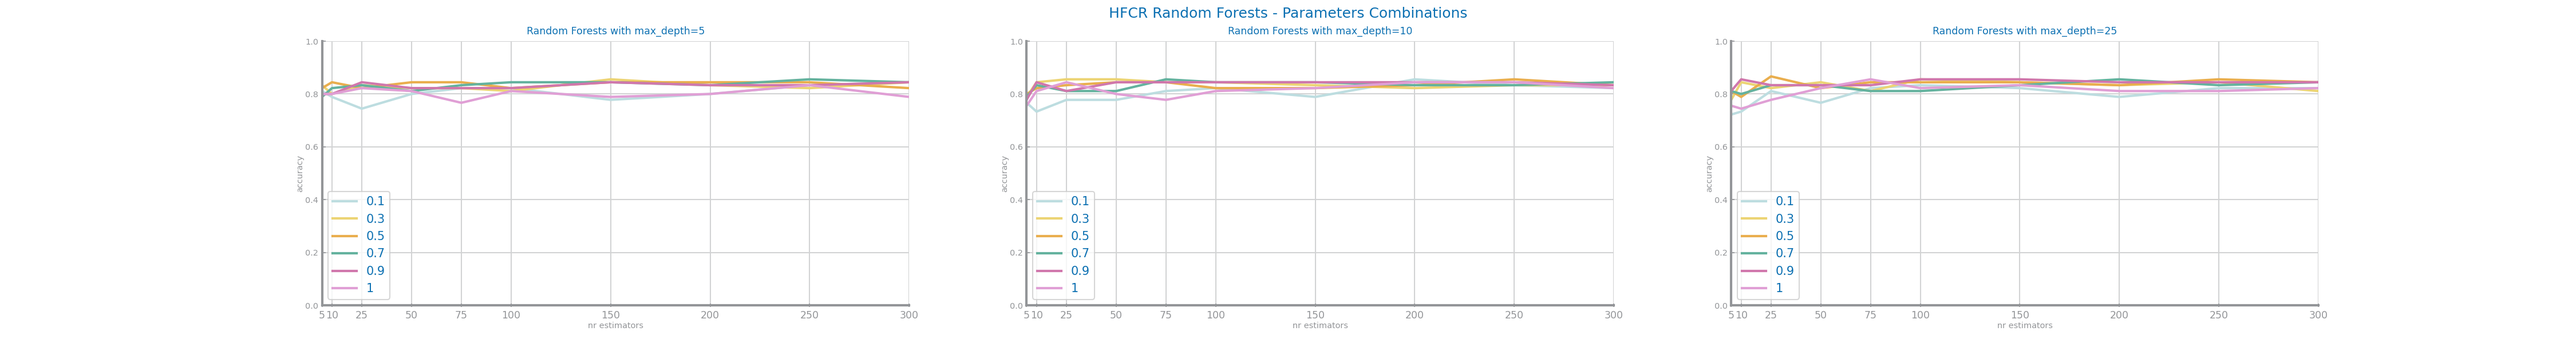
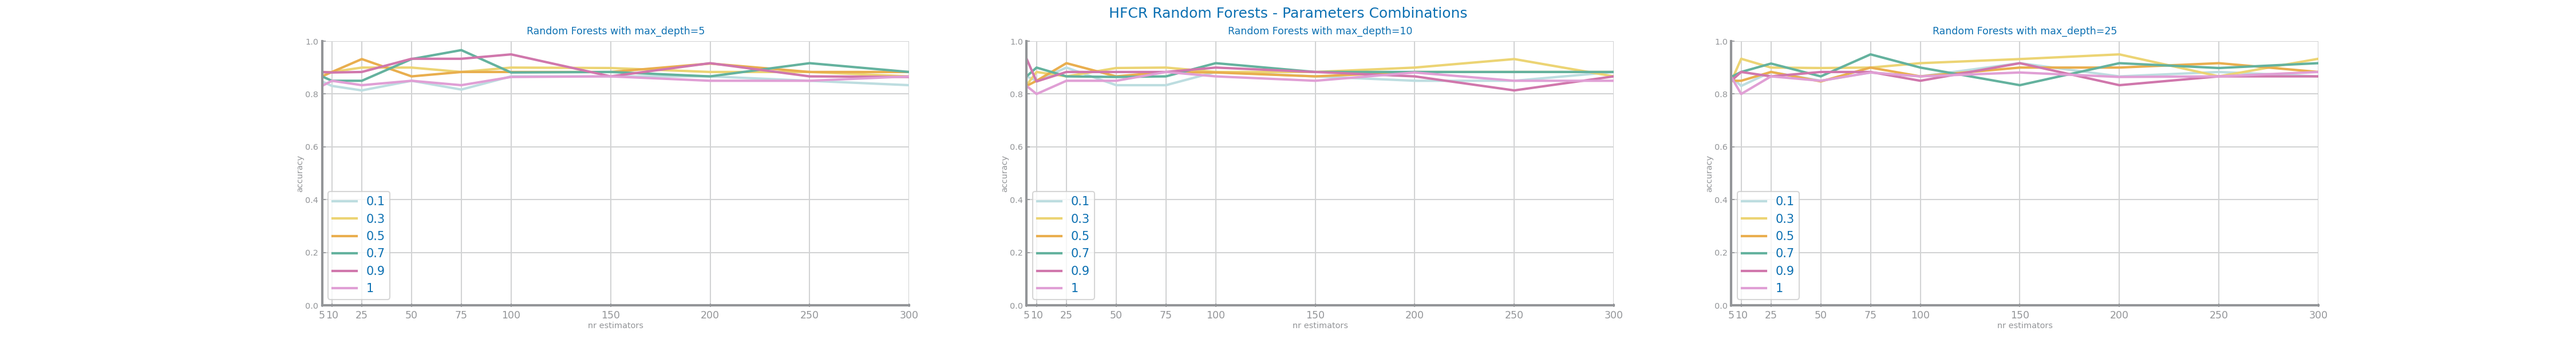
random_forests

Changed region(s): [[0.1244, 0.15, 0.9022, 0.33]]

diff --git a/Labs/Lab05/HFCR_random_forests.py b/Labs/Lab05/HFCR_random_forests.py
@@ -1,7 +1,7 @@
 import numpy as np
 import pandas as pd
 import matplotlib.pyplot as plt
-from sklearn.model_selection import train_test_split
+from sklearn.model_selection import StratifiedKFold
 import sklearn.metrics as metrics
 from sklearn.ensemble import RandomForestClassifier
 import ds_functions as ds
@@ -27,7 +27,8 @@ y: np.ndarray = data.pop('DEATH_EVENT').values
 X: np.ndarray = data.values
 labels = pd.unique(y)
 
-trnX, tstX, trnY, tstY = train_test_split(X, y, train_size=0.7, stratify=y)
+n_splits = 5
+skf = StratifiedKFold(n_splits=n_splits, shuffle=True)
 
 n_estimators = [5, 10, 25, 50, 75, 100, 150, 200, 250, 300]
 max_depths = [5, 10, 25]
@@ -35,6 +36,7 @@ max_features = [.1, .3, .5, .7, .9, 1]
 best = ('', 0, 0)
 last_best = 0
 best_tree = None
+best_model = None
 
 cols = len(max_depths)
 plt.figure()
@@ -45,14 +47,31 @@ for k in range(len(max_depths)):
     for f in max_features:
         yvalues = []
         for n in n_estimators:
-            rf = RandomForestClassifier(n_estimators=n, max_depth=d, max_features=f)
-            rf.fit(trnX, trnY)
-            prdY = rf.predict(tstX)
-            yvalues.append(metrics.accuracy_score(tstY, prdY))
+            best_iteration_accuracy = 0
+            model_sets = ([], [], [], [])
+            splitIterator = iter(skf.split(X, y))
+            for model in splitIterator:
+                trnX = X[model[0]]
+                trnY = y[model[0]]
+                tstX = X[model[1]]
+                tstY = y[model[1]]
+
+                rf = RandomForestClassifier(n_estimators=n, max_depth=d, max_features=f)
+                rf.fit(trnX, trnY)
+                prdY = rf.predict(tstX)
+
+                iteration_accuracy = metrics.accuracy_score(tstY, prdY)
+
+                if iteration_accuracy > best_iteration_accuracy:
+                    best_iteration_accuracy = iteration_accuracy
+                    model_sets = (trnX, trnY, tstX, tstY)
+
+            yvalues.append(best_iteration_accuracy)
             if yvalues[-1] > last_best:
                 best = (d, f, n)
                 last_best = yvalues[-1]
                 best_tree = rf
+                best_model = model_sets
 
         values[f] = yvalues
     ds.multiple_line_chart(n_estimators, values, ax=axs[0, k], title='Random Forests with max_depth=%d'%d,
@@ -64,6 +83,10 @@ print('Best results with depth=%d, %1.2f features and %d estimators, with accura
 print()
 
 print('HFCR Random Forests - Performance & Confusion Matrix')
+trnX = best_model[0]
+trnY = best_model[1]
+tstX = best_model[2]
+tstY = best_model[3]
 prd_trn = best_tree.predict(trnX)
 prd_tst = best_tree.predict(tstX)
 ds.plot_evaluation_results(pd.unique(y), trnY, prd_trn, tstY, prd_tst)
